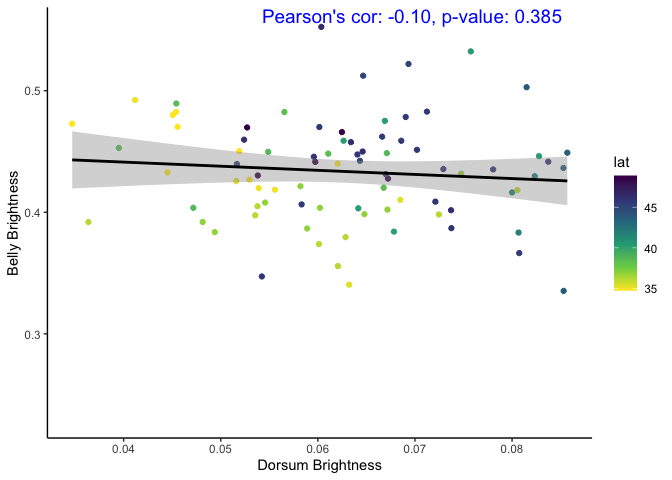
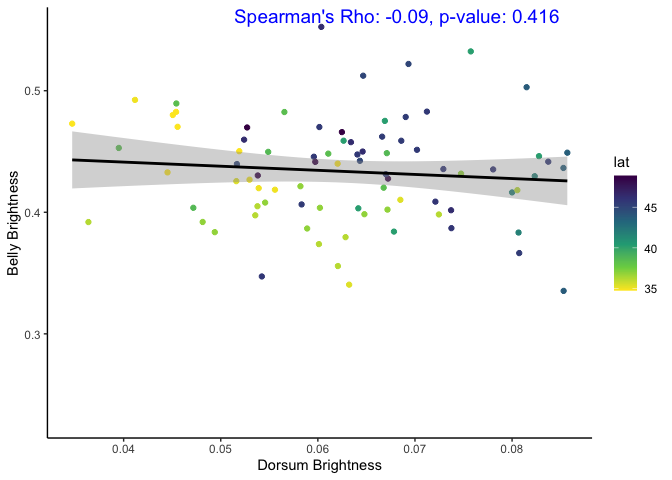
added more prelim analyses

Changed region(s): [[0.3438, 0.0, 0.8438, 0.0625]]

diff --git a/results/Preliminary_results_geographic_variation_plumage.md b/results/Preliminary_results_geographic_variation_plumage.md
@@ -7,6 +7,26 @@ Ore, MJ.
 
 ![](Preliminary_results_geographic_variation_plumage_files/figure-gfm/brightness%20by%20pop-1.png)<!-- -->
 
+    ## 
+    ## Call:
+    ## lm(formula = dblMean ~ lat, data = d_sub, na.action = na.exclude)
+    ## 
+    ## Residuals:
+    ##        Min         1Q     Median         3Q        Max 
+    ## -0.0261933 -0.0080095  0.0000281  0.0096318  0.0216781 
+    ## 
+    ## Coefficients:
+    ##              Estimate Std. Error t value Pr(>|t|)    
+    ## (Intercept) 0.0283248  0.0088721   3.193  0.00175 ** 
+    ## lat         0.0009367  0.0002129   4.399 2.18e-05 ***
+    ## ---
+    ## Signif. codes:  0 '***' 0.001 '**' 0.01 '*' 0.05 '.' 0.1 ' ' 1
+    ## 
+    ## Residual standard error: 0.01115 on 136 degrees of freedom
+    ## Multiple R-squared:  0.1246, Adjusted R-squared:  0.1181 
+    ## F-statistic: 19.35 on 1 and 136 DF,  p-value: 2.178e-05
+
+![](Preliminary_results_geographic_variation_plumage_files/figure-gfm/brightness%20by%20indv-1.png)<!-- -->
 \##Short wavelength by pop
 
 ![](Preliminary_results_geographic_variation_plumage_files/figure-gfm/sw%20by%20pop-1.png)<!-- -->
@@ -51,7 +71,15 @@ Ore, MJ.
 
 ## Dorsum and belly
 
-![](Preliminary_results_geographic_variation_plumage_files/figure-gfm/d%20vs%20b%20plot%20-1.png)<!-- -->![](Preliminary_results_geographic_variation_plumage_files/figure-gfm/d%20vs%20b%20plot%20-2.png)<!-- -->
+![](Preliminary_results_geographic_variation_plumage_files/figure-gfm/d%20vs%20b%20plot%20-1.png)<!-- -->
+
+    ## 
+    ##  Shapiro-Wilk normality test
+    ## 
+    ## data:  lum_wide$dblMean_b
+    ## W = 0.96185, p-value = 0.01227
+
+![](Preliminary_results_geographic_variation_plumage_files/figure-gfm/d%20vs%20b%20plot%20-2.png)<!-- -->
 
 ## Dorsum and wing spot - do darker birds have whiter wing spots?
 
@@ -80,3 +108,80 @@ Ore, MJ.
     ## W = 0.98476, p-value = 0.4256
 
 ![](Preliminary_results_geographic_variation_plumage_files/figure-gfm/dorsum%20vs%20wingspot%20area-1.png)<!-- -->
+
+\#Do brighter/larger wingspots correlate to throat badge or uv in crown?
+
+    ## 
+    ##  Shapiro-Wilk normality test
+    ## 
+    ## data:  lum_wide$area_w
+    ## W = 0.9892, p-value = 0.6942
+
+    ## 
+    ##  Shapiro-Wilk normality test
+    ## 
+    ## data:  lum_wide$dblMean_w
+    ## W = 0.9772, p-value = 0.1275
+
+    ## 
+    ##  Shapiro-Wilk normality test
+    ## 
+    ## data:  lum_wide$dblMean_t
+    ## W = 0.88969, p-value = 2.868e-06
+
+    ## 
+    ##  Shapiro-Wilk normality test
+    ## 
+    ## data:  lum_wide$uvMean_c
+    ## W = 0.99237, p-value = 0.9337
+
+![](Preliminary_results_geographic_variation_plumage_files/figure-gfm/sex%20selection-1.png)<!-- -->![](Preliminary_results_geographic_variation_plumage_files/figure-gfm/sex%20selection-2.png)<!-- -->![](Preliminary_results_geographic_variation_plumage_files/figure-gfm/sex%20selection-3.png)<!-- -->![](Preliminary_results_geographic_variation_plumage_files/figure-gfm/sex%20selection-4.png)<!-- -->![](Preliminary_results_geographic_variation_plumage_files/figure-gfm/sex%20selection-5.png)<!-- -->![](Preliminary_results_geographic_variation_plumage_files/figure-gfm/sex%20selection-6.png)<!-- -->![](Preliminary_results_geographic_variation_plumage_files/figure-gfm/sex%20selection-7.png)<!-- -->![](Preliminary_results_geographic_variation_plumage_files/figure-gfm/sex%20selection-8.png)<!-- -->
+\#Age and Markers
+
+prep data
+
+## Are wing spots brighter or larger in ASY vs SY males
+
+    ## 
+    ##  Welch Two Sample t-test
+    ## 
+    ## data:  dblMean_w by Age
+    ## t = 8.1535, df = 82.159, p-value = 3.426e-12
+    ## alternative hypothesis: true difference in means between group ASY and group SY is not equal to 0
+    ## 95 percent confidence interval:
+    ##  0.06652207 0.10945645
+    ## sample estimates:
+    ## mean in group ASY  mean in group SY 
+    ##         0.4452821         0.3572929
+
+![](Preliminary_results_geographic_variation_plumage_files/figure-gfm/wingspot%20and%20age-1.png)<!-- -->
+
+    ## 
+    ##  Welch Two Sample t-test
+    ## 
+    ## data:  area_w by Age
+    ## t = 8.6023, df = 129.27, p-value = 2.257e-14
+    ## alternative hypothesis: true difference in means between group ASY and group SY is not equal to 0
+    ## 95 percent confidence interval:
+    ##  18282.19 29203.69
+    ## sample estimates:
+    ## mean in group ASY  mean in group SY 
+    ##          59050.30          35307.36
+
+![](Preliminary_results_geographic_variation_plumage_files/figure-gfm/wingspot%20and%20age-2.png)<!-- -->
+
+## Are backs darker in ASY vs SY males
+
+    ## 
+    ##  Welch Two Sample t-test
+    ## 
+    ## data:  dblMean_d by Age
+    ## t = -6.9236, df = 133.9, p-value = 1.664e-10
+    ## alternative hypothesis: true difference in means between group ASY and group SY is not equal to 0
+    ## 95 percent confidence interval:
+    ##  -0.014977684 -0.008321802
+    ## sample estimates:
+    ## mean in group ASY  mean in group SY 
+    ##        0.06264613        0.07429587
+
+![](Preliminary_results_geographic_variation_plumage_files/figure-gfm/dorsum%20brightness%20vs%20age-1.png)<!-- -->